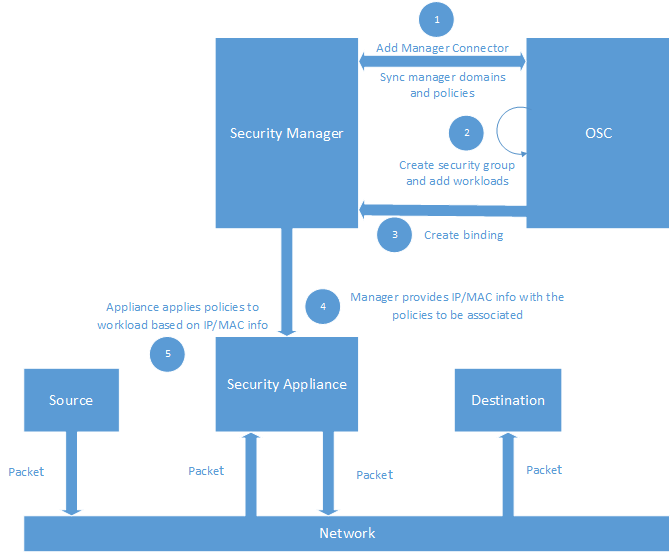
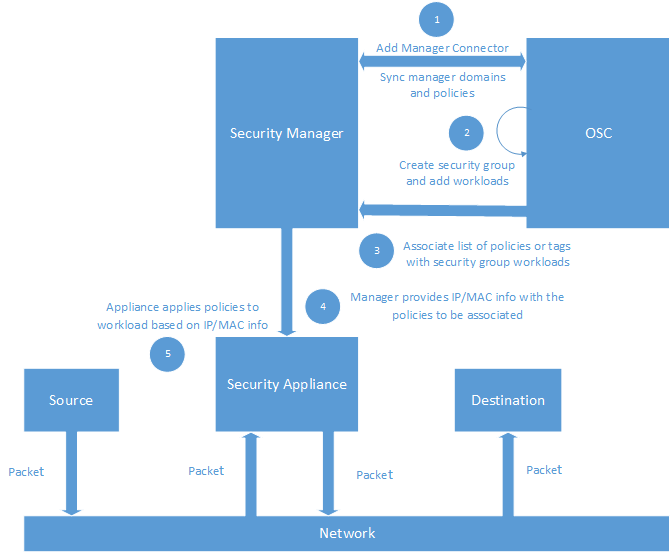
Address reviews

Changed region(s): [[0.5365, 0.3689, 0.8644, 0.4919]]

diff --git a/designs/manager_policy_mapping/policy_mapping.md b/designs/manager_policy_mapping/policy_mapping.md
@@ -15,7 +15,11 @@ If the manager is supporting [Policy Mapping](https://github.com/opensecuritycon
 
 ![](./images/policy_mapping.png)
 
-OSC connects to the manager by adding a manager connector and syncs the domains and the policies avaiable with the manager. The security group on OSC contains workload information. As a part of the binding process, OSC provides the security manager with workload IP/MAC information and the list of policies or tags to be associated with the workload. The security manager provides the supplied information to the security appliance. The security appliance applies the right policies to the workload based on the IP/MAC information.
+- OSC connects to the manager by adding a manager connector and syncs the domains and the policies avaiable with the manager.
+- The security group on OSC contains workload information.
+- As a part of the binding process, OSC provides the security manager with workload IP/MAC information and the list of policies or tags to be associated with the workload.
+- The security manager provides the supplied information to the security appliance.
+- The security appliance applies the right policies to the workload based on the IP/MAC information.
 
 ## Constraints and Assumptions
 The appliance security manager will not delete a security group with one or more security group interfaces.
